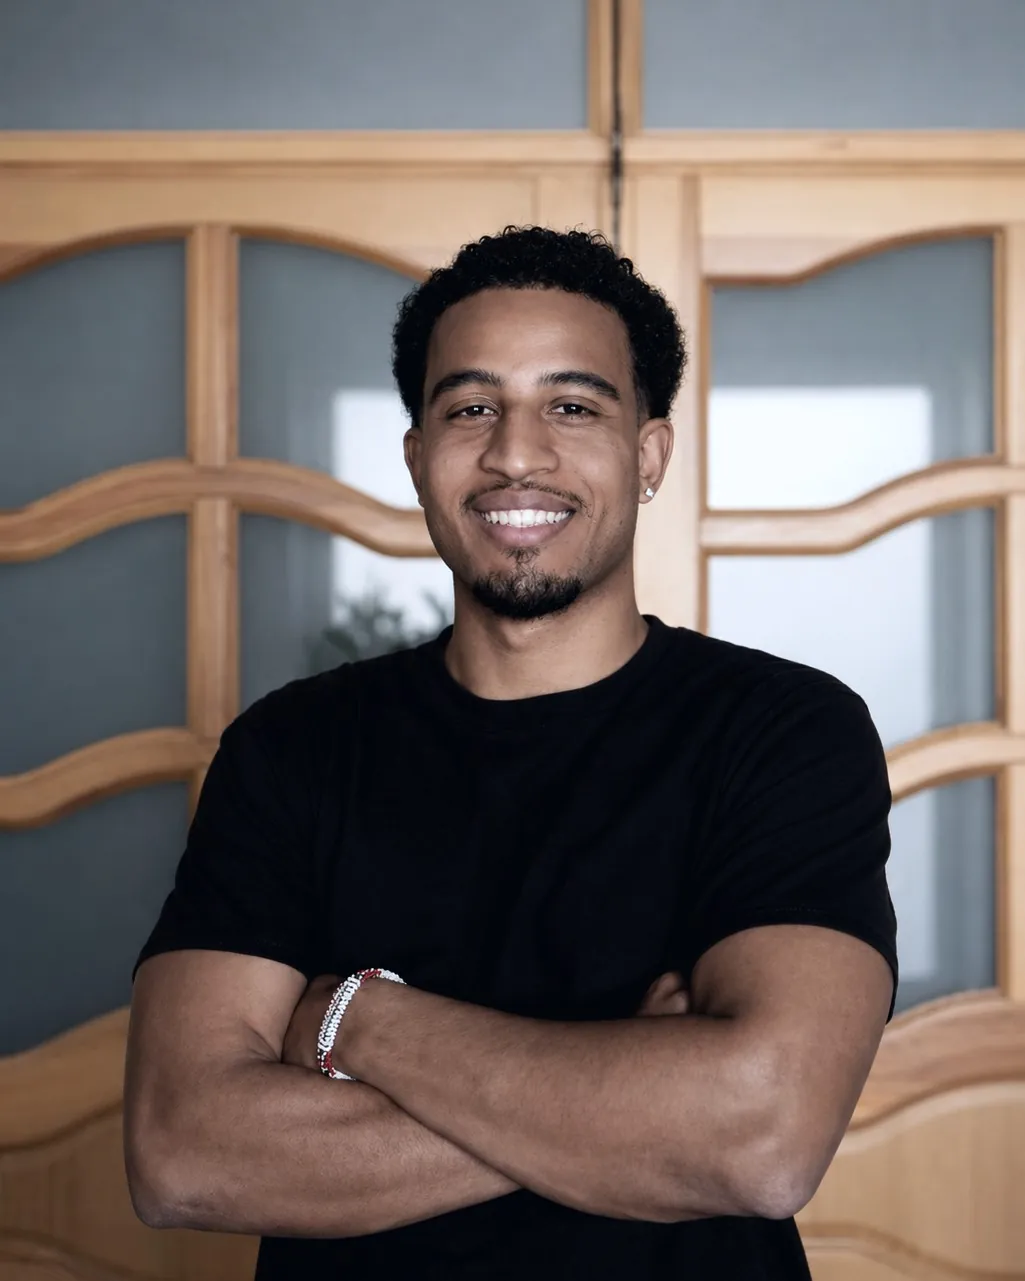
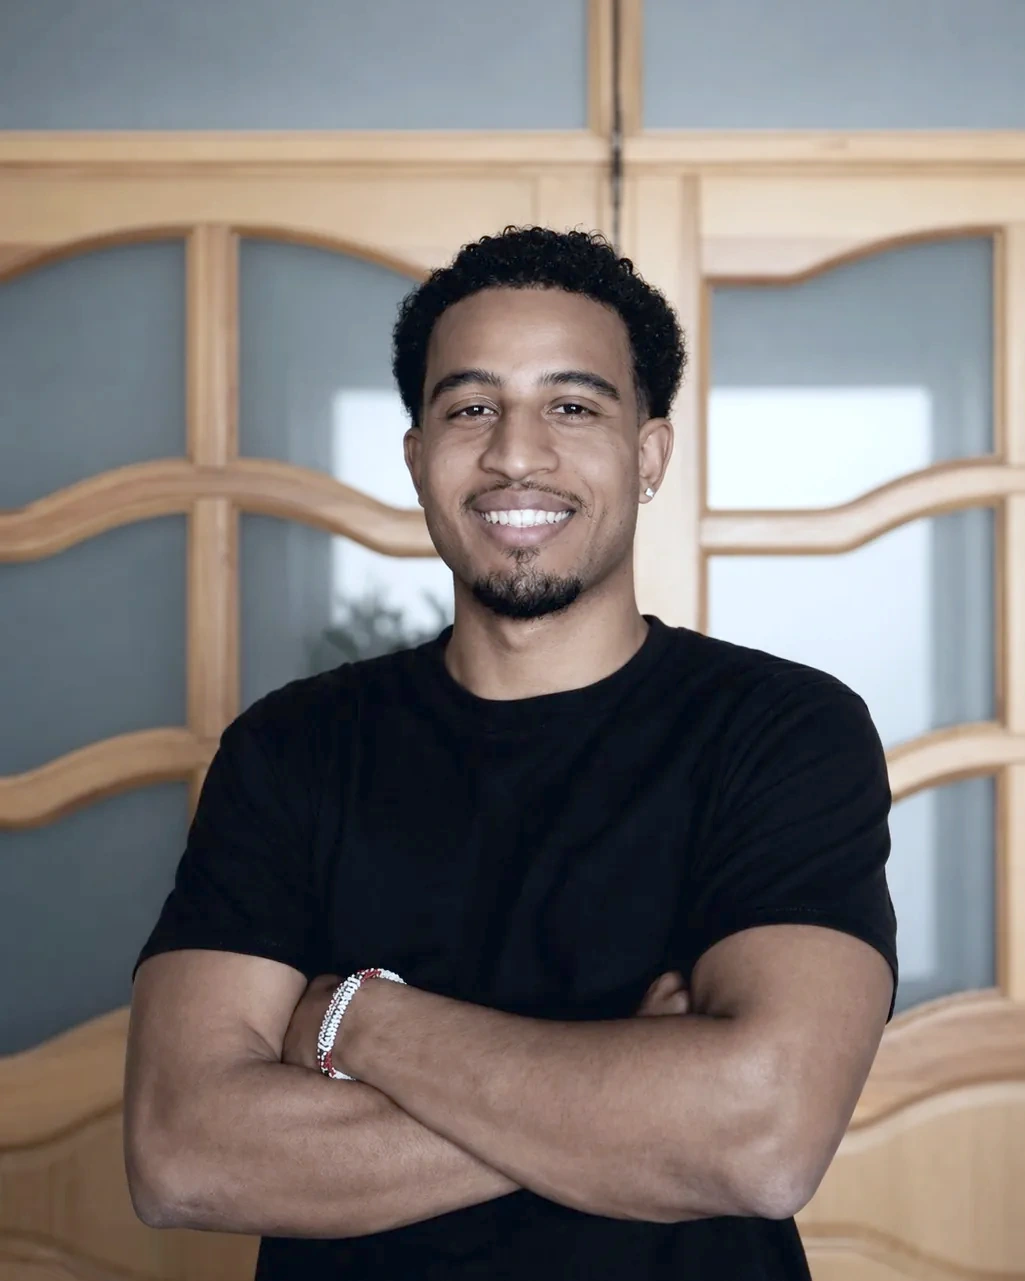
Version pro : portrait d'origine éclairci (sans retouche de netteté), photo de séance retirée de « Mon approche »
Claude-Session: https://claude.ai/code/session_01Mh1BQxcSa4NdpshWVMjazJ

diff --git a/src/components/Approach.tsx b/src/components/Approach.tsx
@@ -24,15 +24,6 @@ export default function Approach({ lang = "fr" }: { lang?: Lang }) {
           <p className="mt-6 text-base leading-relaxed text-night/80">
             {en ? approachEn.intro : "Ostéopathie et kinésithérapie réunies dans une même logique : comprendre, soulager, puis rendre le corps plus résistant, fondée sur les données scientifiques les plus récentes."}
           </p>
-          {/* eslint-disable-next-line @next/next/no-img-element */}
-          <img
-            src="/images/osteopathie-mains.webp"
-            srcSet="/images/osteopathie-mains.webp 1080w, /images/osteopathie-mains-1620.webp 1620w"
-            sizes="(min-width: 768px) 30vw, 90vw"
-            alt={en ? "Osteopathy session: hands-on treatment" : "Séance d'ostéopathie : traitement manuel"}
-            width={1080} height={1616} loading="lazy"
-            className="mt-10 hidden aspect-[4/5] w-full rounded-2xl object-cover md:block"
-          />
         </div>
         <ol className="border-t border-night/15">
           {list.map((p, i) => {
